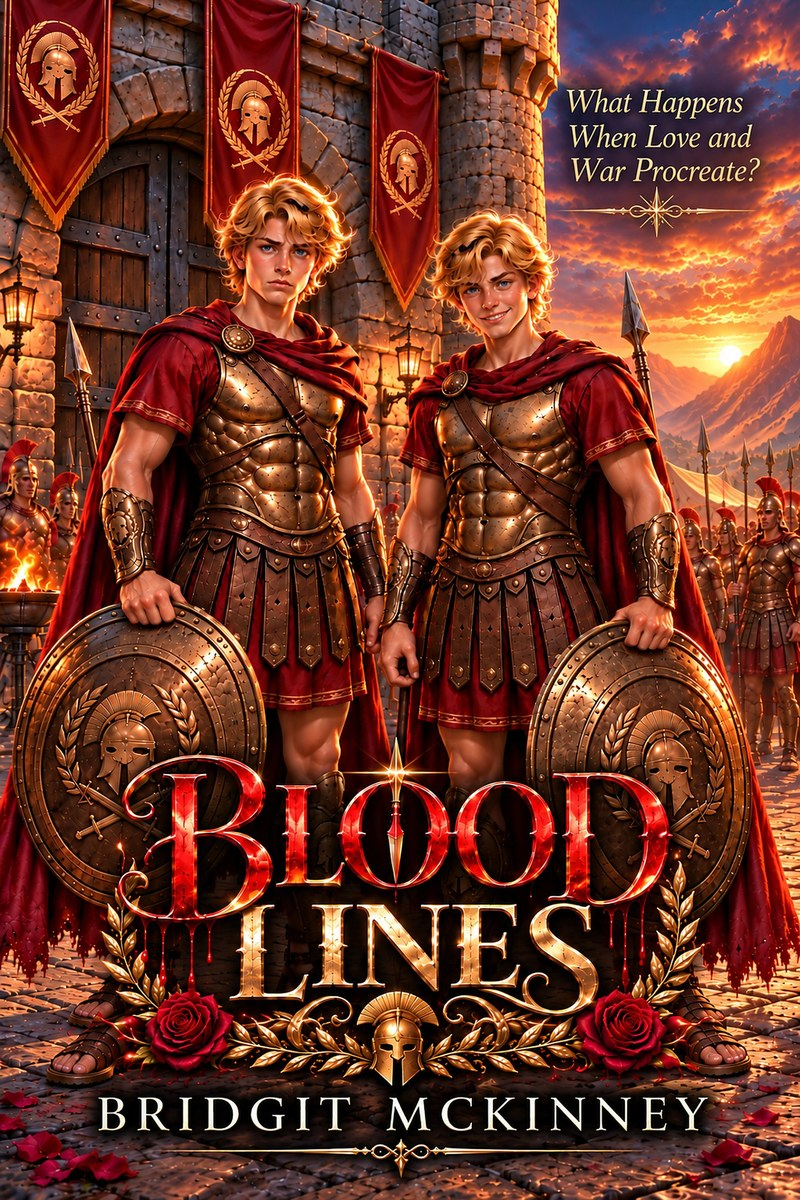
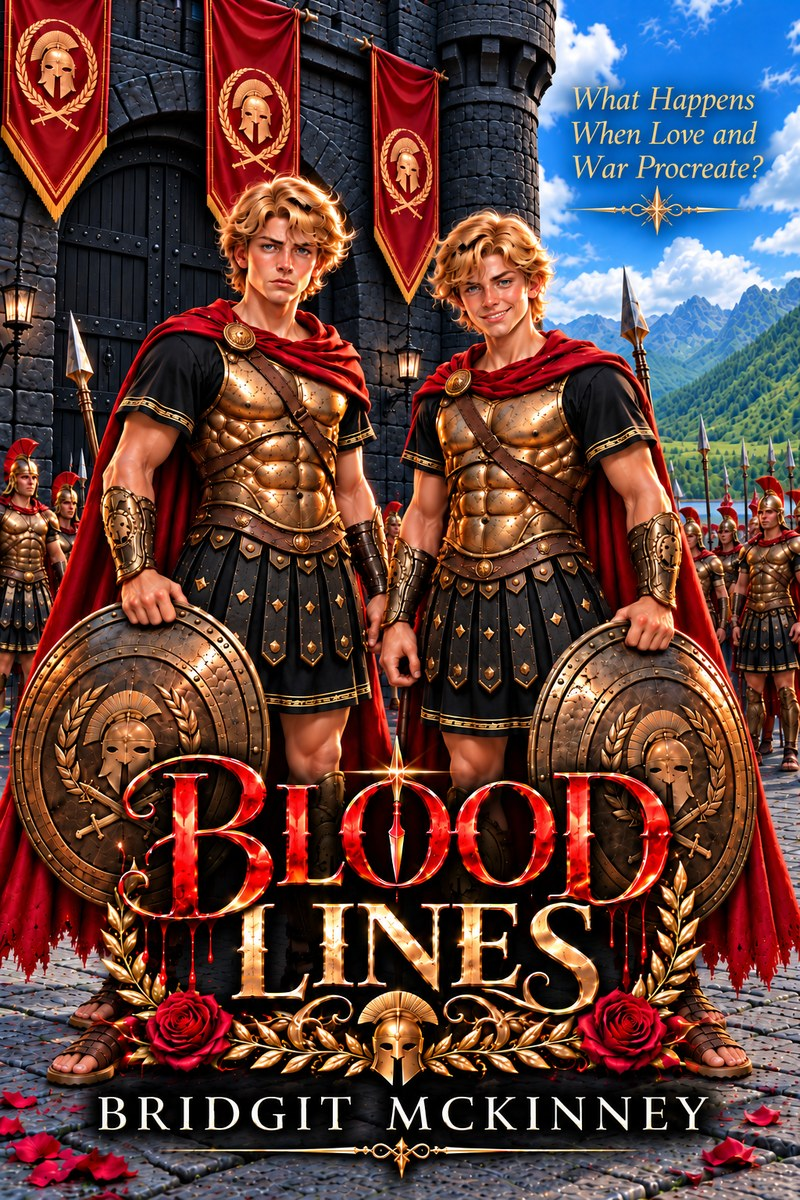
Blood Lines: new cover
Claude-Session: https://claude.ai/code/session_01AyTM8V2gWf1tfjmSu1UxNm

diff --git a/books.html b/books.html
@@ -11,7 +11,7 @@
 <link rel="preconnect" href="https://fonts.googleapis.com">
 <link rel="preconnect" href="https://fonts.gstatic.com" crossorigin>
 <link href="https://fonts.googleapis.com/css2?family=Alegreya:ital,wght@0,400;0,700;0,800;1,400&family=Alegreya+Sans:wght@400;700&display=swap" rel="stylesheet">
-<link rel="stylesheet" href="style.css?v=20261016c">
+<link rel="stylesheet" href="style.css?v=20261017a">
 </head>
 <body>
 <header class="sky short">
@@ -27,7 +27,7 @@
 </header>
 <main>
 <section class="book" id="the-alphas-brother">
-<img class="cover" src="images/the-alphas-brother.jpg?v=20261016c" width="800" height="1200" alt="Cover of The Alpha&rsquo;s Brother by Bridgit McKinney: a dark-haired man with a guitar sits on cabin steps beside a gray wolf at sunset in the mountains">
+<img class="cover" src="images/the-alphas-brother.jpg?v=20261017a" width="800" height="1200" alt="Cover of The Alpha&rsquo;s Brother by Bridgit McKinney: a dark-haired man with a guitar sits on cabin steps beside a gray wolf at sunset in the mountains">
 <div>
 <h2>The Alpha&rsquo;s Brother</h2>
 <p class="status">A werewolf romance. New release. Available now in Kindle and paperback.</p>
@@ -48,7 +48,7 @@
 </section>
 <section class="book" id="rook">
 <div class="side">
-<img class="cover" src="images/rook.jpg?v=20261016c" width="800" height="1200" alt="Cover of Rook by Bridgit McKinney: a red-eyed wolf king lounges on a throne beside a crown and a stack of old books, with a castle under a full moon behind him">
+<img class="cover" src="images/rook.jpg?v=20261017a" width="800" height="1200" alt="Cover of Rook by Bridgit McKinney: a red-eyed wolf king lounges on a throne beside a crown and a stack of old books, with a castle under a full moon behind him">
 <p class="readers"><b>3.1K</b> reads and <b>443</b> reader library saves on CyanBird</p>
 <div class="praise"><h3>What readers are saying</h3>
 <blockquote><p>Love the way your paragraphs are written out. Your writing holds your interest and makes it a joy to follow. So far no repetitive sentences over and over. So far very well put together.</p><footer>CyanBird reader</footer></blockquote>
@@ -70,7 +70,7 @@
 </div>
 </section>
 <section class="book" id="where-the-wild-sky-breaks">
-<img class="cover" src="images/where-the-wild-sky-breaks.jpg?v=20261016c" width="800" height="1200" alt="Cover of Where the Wild Sky Breaks by Bridgit McKinney: a cowboy and a dark-haired woman in a lace dress embrace beside a ranch fence with mountains behind them">
+<img class="cover" src="images/where-the-wild-sky-breaks.jpg?v=20261017a" width="800" height="1200" alt="Cover of Where the Wild Sky Breaks by Bridgit McKinney: a cowboy and a dark-haired woman in a lace dress embrace beside a ranch fence with mountains behind them">
 <div>
 <h2>Where the Wild Sky Breaks</h2>
 <p class="status">A Montana romance. Available now from Amazon and other booksellers.</p>
@@ -83,7 +83,7 @@
 </div>
 </section>
 <section class="book" id="a-wolf-remembers">
-<img class="cover" src="images/a-wolf-remembers.jpg?v=20261016c" width="800" height="1250" alt="Cover of A Wolf Remembers by Bridgit McKinney: a white-bearded man and a young woman with long braided hair stand in a golden forest with a wolf behind them">
+<img class="cover" src="images/a-wolf-remembers.jpg?v=20261017a" width="800" height="1250" alt="Cover of A Wolf Remembers by Bridgit McKinney: a white-bearded man and a young woman with long braided hair stand in a golden forest with a wolf behind them">
 <div>
 <h2>A Wolf Remembers</h2>
 <p class="status">Pale Strand, book one. Available now in ebook and paperback.</p>
@@ -96,7 +96,7 @@
 </div>
 </section>
 <section class="book" id="the-cost-of-love">
-<img class="cover" src="images/the-cost-of-love.jpg?v=20261016c" width="800" height="1200" alt="Cover of The Cost of Love by Bridgit McKinney: a dark-haired goddess and a golden god face each other above three glowing paths, walked by a swordsman, a spearman, and an archer with wolves">
+<img class="cover" src="images/the-cost-of-love.jpg?v=20261017a" width="800" height="1200" alt="Cover of The Cost of Love by Bridgit McKinney: a dark-haired goddess and a golden god face each other above three glowing paths, walked by a swordsman, a spearman, and an archer with wolves">
 <div>
 <h2>The Cost of Love</h2>
 <p class="status">Pale Strand, book two. Available now from Amazon and other booksellers.</p>
@@ -109,7 +109,7 @@
 </div>
 </section>
 <section class="book" id="the-great-war">
-<img class="cover" src="images/the-great-war.jpg?v=20261016c" width="800" height="1209" alt="Cover of The Great War by Bridgit McKinney: a silver-haired archer and a white-bearded man stand before two snarling wolves, with a red-haired woman and a helmeted warrior in the firelit sky above them">
+<img class="cover" src="images/the-great-war.jpg?v=20261017a" width="800" height="1209" alt="Cover of The Great War by Bridgit McKinney: a silver-haired archer and a white-bearded man stand before two snarling wolves, with a red-haired woman and a helmeted warrior in the firelit sky above them">
 <div>
 <h2>The Great War</h2>
 <p class="status">Pale Strand, book three. Available now from Amazon and other booksellers.</p>
@@ -122,7 +122,7 @@
 </div>
 </section>
 <section class="book" id="the-pale-strand-collectors-edition">
-<img class="cover" src="images/the-pale-strand-collectors-edition.jpg?v=20261016c" width="800" height="1195" alt="Cover of The Pale Strand: Collector&rsquo;s Edition by Bridgit McKinney: a white wolf in pale robes stands among six gods and goddesses beneath a bearded god crowned with light">
+<img class="cover" src="images/the-pale-strand-collectors-edition.jpg?v=20261017a" width="800" height="1195" alt="Cover of The Pale Strand: Collector&rsquo;s Edition by Bridgit McKinney: a white wolf in pale robes stands among six gods and goddesses beneath a bearded god crowned with light">
 <div>
 <h2>The Pale Strand: Collector&rsquo;s Edition</h2>
 <p class="status">The complete series in one hardcover. Available now.</p>
@@ -133,7 +133,7 @@
 </div>
 </section>
 <section class="book" id="even-gods-fall">
-<img class="cover" src="images/even-gods-fall.jpg?v=20261016c" width="800" height="1212" alt="Cover of Even Gods Fall by Bridgit McKinney: a dark-haired warrior in black armor and a golden-haired woman lean close before a dark fortress at sunset">
+<img class="cover" src="images/even-gods-fall.jpg?v=20261017a" width="800" height="1212" alt="Cover of Even Gods Fall by Bridgit McKinney: a dark-haired warrior in black armor and a golden-haired woman lean close before a dark fortress at sunset">
 <div>
 <h2>Even Gods Fall</h2>
 <p class="status">A romance of the Greek gods. Available now from Amazon and other booksellers.</p>
@@ -144,7 +144,7 @@
 </div>
 </section>
 <section class="book" id="blood-lines">
-<img class="cover" src="images/blood-lines.jpg?v=20261016c" width="800" height="1200" alt="Cover of Blood Lines by Bridgit McKinney: blond twin brothers in bronze armor and red cloaks hold round shields before a fortress gate at sunset, under the tagline What Happens When Love and War Procreate?">
+<img class="cover" src="images/blood-lines.jpg?v=20261017a" width="800" height="1200" alt="Cover of Blood Lines by Bridgit McKinney: blond twin brothers in bronze armor and red cloaks hold round shields before a dark stone fortress under a blue mountain sky, under the tagline What Happens When Love and War Procreate?">
 <div>
 <h2>Blood Lines</h2>
 <p class="status">A dark comedy of the Greek gods. The companion to <i>Even Gods Fall</i>. Coming soon.</p>
@@ -154,7 +154,7 @@
 </section>
 <section class="book" id="the-blood-of-three-crowns">
 <div class="side">
-<img class="cover" src="images/the-blood-of-three-crowns.jpg?v=20261016c" width="800" height="1208" alt="Cover of The Blood of Three Crowns by Bridgit McKinney: a dark-haired man holds a golden-haired woman in front of a blue and white wolf dragon, above three crowns">
+<img class="cover" src="images/the-blood-of-three-crowns.jpg?v=20261017a" width="800" height="1208" alt="Cover of The Blood of Three Crowns by Bridgit McKinney: a dark-haired man holds a golden-haired woman in front of a blue and white wolf dragon, above three crowns">
 <p class="readers"><b>2.9K</b> reads and <b>411</b> reader library saves on CyanBird</p>
 </div>
 <div>

diff --git a/index.html b/index.html
@@ -11,7 +11,7 @@
 <link rel="preconnect" href="https://fonts.googleapis.com">
 <link rel="preconnect" href="https://fonts.gstatic.com" crossorigin>
 <link href="https://fonts.googleapis.com/css2?family=Alegreya:ital,wght@0,400;0,700;0,800;1,400&family=Alegreya+Sans:wght@400;700&display=swap" rel="stylesheet">
-<link rel="stylesheet" href="style.css?v=20261016c">
+<link rel="stylesheet" href="style.css?v=20261017a">
 </head>
 <body>
 <header class="sky">
@@ -28,7 +28,7 @@
 <main>
 <section class="author with-photo">
 <figure class="photo-col">
-<img class="portrait" src="images/bridgit-mckinney.jpg?v=20261016c" alt="Bridgit McKinney in a hooded wrap in the snow with two gray wolves" width="612" height="765">
+<img class="portrait" src="images/bridgit-mckinney.jpg?v=20261017a" alt="Bridgit McKinney in a hooded wrap in the snow with two gray wolves" width="612" height="765">
 <figcaption class="fun-fact"><strong>Fun fact:</strong> Bridgit was once prosecuted by her own AI assistant for the attempted murder of her characters. She won the case by sentencing a werewolf to an eternal honeymoon cruise. He is still at sea, and still not speaking to her.</figcaption>
 </figure>
 <div>
@@ -42,16 +42,16 @@
 <h2>The books</h2>
 <p class="status">Choose a cover to read what the book is about.</p>
 <div class="shelf">
-<a href="books.html#the-alphas-brother"><img src="images/the-alphas-brother.jpg?v=20261016c" alt="Cover of The Alpha&rsquo;s Brother"><b>The Alpha&rsquo;s Brother</b><span>New release</span></a>
-<a href="books.html#rook"><img src="images/rook.jpg?v=20261016c" alt="Cover of Rook"><b>Rook</b></a>
-<a href="books.html#where-the-wild-sky-breaks"><img src="images/where-the-wild-sky-breaks.jpg?v=20261016c" alt="Cover of Where the Wild Sky Breaks"><b>Where the Wild Sky Breaks</b></a>
-<a href="books.html#a-wolf-remembers"><img src="images/a-wolf-remembers.jpg?v=20261016c" alt="Cover of A Wolf Remembers"><b>A Wolf Remembers</b><span>Pale Strand, book one</span></a>
-<a href="books.html#the-cost-of-love"><img src="images/the-cost-of-love.jpg?v=20261016c" alt="Cover of The Cost of Love"><b>The Cost of Love</b><span>Pale Strand, book two</span></a>
-<a href="books.html#the-great-war"><img src="images/the-great-war.jpg?v=20261016c" alt="Cover of The Great War"><b>The Great War</b><span>Pale Strand, book three</span></a>
-<a href="books.html#the-pale-strand-collectors-edition"><img src="images/the-pale-strand-collectors-edition.jpg?v=20261016c" alt="Cover of The Pale Strand: Collector&rsquo;s Edition"><b>The Pale Strand: Collector&rsquo;s Edition</b><span>The only way to read book four</span></a>
-<a href="books.html#even-gods-fall"><img src="images/even-gods-fall.jpg?v=20261016c" alt="Cover of Even Gods Fall"><b>Even Gods Fall</b></a>
-<a href="books.html#blood-lines"><img src="images/blood-lines.jpg?v=20261016c" alt="Cover of Blood Lines"><b>Blood Lines</b><span>Coming soon</span></a>
-<a href="books.html#the-blood-of-three-crowns"><img src="images/the-blood-of-three-crowns.jpg?v=20261016c" alt="Cover of The Blood of Three Crowns"><b>The Blood of Three Crowns</b></a>
+<a href="books.html#the-alphas-brother"><img src="images/the-alphas-brother.jpg?v=20261017a" alt="Cover of The Alpha&rsquo;s Brother"><b>The Alpha&rsquo;s Brother</b><span>New release</span></a>
+<a href="books.html#rook"><img src="images/rook.jpg?v=20261017a" alt="Cover of Rook"><b>Rook</b></a>
+<a href="books.html#where-the-wild-sky-breaks"><img src="images/where-the-wild-sky-breaks.jpg?v=20261017a" alt="Cover of Where the Wild Sky Breaks"><b>Where the Wild Sky Breaks</b></a>
+<a href="books.html#a-wolf-remembers"><img src="images/a-wolf-remembers.jpg?v=20261017a" alt="Cover of A Wolf Remembers"><b>A Wolf Remembers</b><span>Pale Strand, book one</span></a>
+<a href="books.html#the-cost-of-love"><img src="images/the-cost-of-love.jpg?v=20261017a" alt="Cover of The Cost of Love"><b>The Cost of Love</b><span>Pale Strand, book two</span></a>
+<a href="books.html#the-great-war"><img src="images/the-great-war.jpg?v=20261017a" alt="Cover of The Great War"><b>The Great War</b><span>Pale Strand, book three</span></a>
+<a href="books.html#the-pale-strand-collectors-edition"><img src="images/the-pale-strand-collectors-edition.jpg?v=20261017a" alt="Cover of The Pale Strand: Collector&rsquo;s Edition"><b>The Pale Strand: Collector&rsquo;s Edition</b><span>The only way to read book four</span></a>
+<a href="books.html#even-gods-fall"><img src="images/even-gods-fall.jpg?v=20261017a" alt="Cover of Even Gods Fall"><b>Even Gods Fall</b></a>
+<a href="books.html#blood-lines"><img src="images/blood-lines.jpg?v=20261017a" alt="Cover of Blood Lines"><b>Blood Lines</b><span>Coming soon</span></a>
+<a href="books.html#the-blood-of-three-crowns"><img src="images/the-blood-of-three-crowns.jpg?v=20261017a" alt="Cover of The Blood of Three Crowns"><b>The Blood of Three Crowns</b></a>
 </div>
 </section>
 </main>

diff --git a/about.html b/about.html
@@ -11,7 +11,7 @@
 <link rel="preconnect" href="https://fonts.googleapis.com">
 <link rel="preconnect" href="https://fonts.gstatic.com" crossorigin>
 <link href="https://fonts.googleapis.com/css2?family=Alegreya:ital,wght@0,400;0,700;0,800;1,400&family=Alegreya+Sans:wght@400;700&display=swap" rel="stylesheet">
-<link rel="stylesheet" href="style.css?v=20261016c">
+<link rel="stylesheet" href="style.css?v=20261017a">
 </head>
 <body>
 <header class="sky short">
@@ -28,7 +28,7 @@
 <main>
 <section class="author with-photo">
 <figure class="photo-col">
-<img class="portrait" src="images/bridgit-mckinney-portrait.jpg?v=20261016c" alt="Bridgit McKinney" width="612" height="765">
+<img class="portrait" src="images/bridgit-mckinney-portrait.jpg?v=20261017a" alt="Bridgit McKinney" width="612" height="765">
 <figcaption class="fun-fact"><strong>Fun fact:</strong> Bridgit once fired one of her AI writing assistants for making more work than she saved. The AI begged for her job back. Bridgit rehired her, and has never let her forget it.</figcaption>
 </figure>
 <div>

diff --git a/contact.html b/contact.html
@@ -11,7 +11,7 @@
 <link rel="preconnect" href="https://fonts.googleapis.com">
 <link rel="preconnect" href="https://fonts.gstatic.com" crossorigin>
 <link href="https://fonts.googleapis.com/css2?family=Alegreya:ital,wght@0,400;0,700;0,800;1,400&family=Alegreya+Sans:wght@400;700&display=swap" rel="stylesheet">
-<link rel="stylesheet" href="style.css?v=20261016c">
+<link rel="stylesheet" href="style.css?v=20261017a">
 </head>
 <body>
 <header class="sky short">

diff --git a/review.html b/review.html
@@ -11,7 +11,7 @@
 <link rel="preconnect" href="https://fonts.googleapis.com">
 <link rel="preconnect" href="https://fonts.gstatic.com" crossorigin>
 <link href="https://fonts.googleapis.com/css2?family=Alegreya:ital,wght@0,400;0,700;0,800;1,400&family=Alegreya+Sans:wght@400;700&display=swap" rel="stylesheet">
-<link rel="stylesheet" href="style.css?v=20261016c">
+<link rel="stylesheet" href="style.css?v=20261017a">
 </head>
 <body>
 <header class="sky short">

diff --git a/thanks.html b/thanks.html
@@ -11,7 +11,7 @@
 <link rel="preconnect" href="https://fonts.googleapis.com">
 <link rel="preconnect" href="https://fonts.gstatic.com" crossorigin>
 <link href="https://fonts.googleapis.com/css2?family=Alegreya:ital,wght@0,400;0,700;0,800;1,400&family=Alegreya+Sans:wght@400;700&display=swap" rel="stylesheet">
-<link rel="stylesheet" href="style.css?v=20261016c">
+<link rel="stylesheet" href="style.css?v=20261017a">
 </head>
 <body>
 <header class="sky short">
